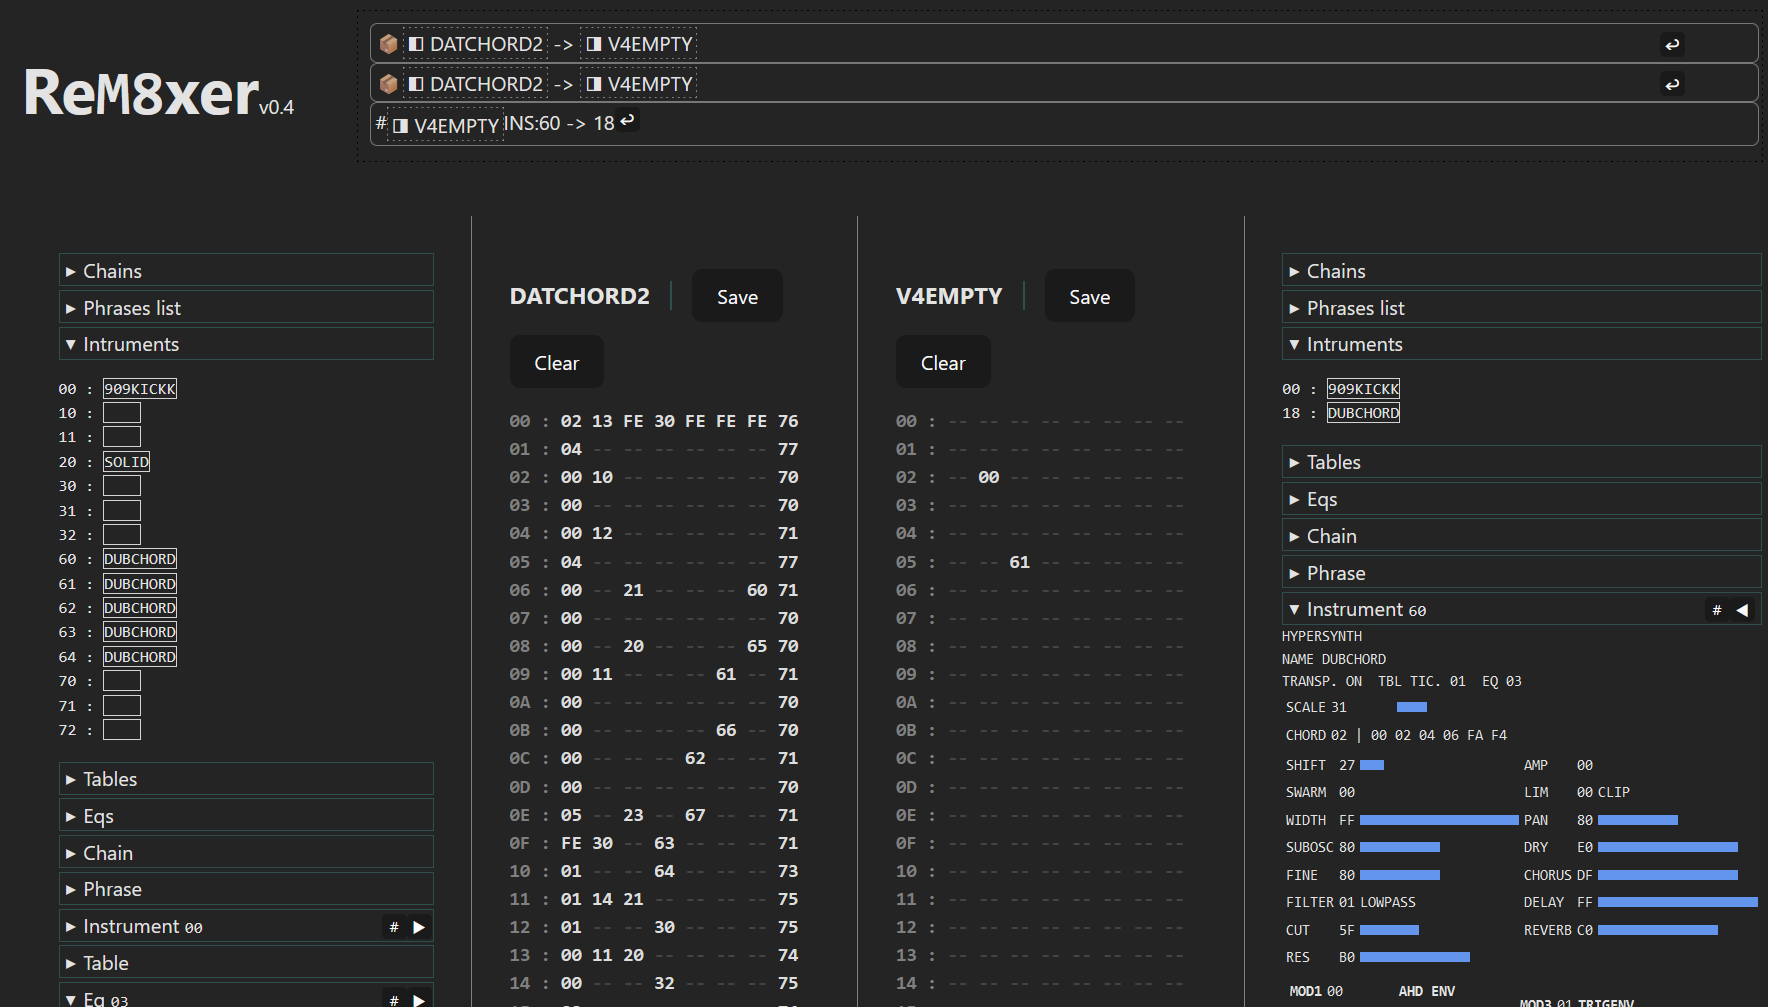
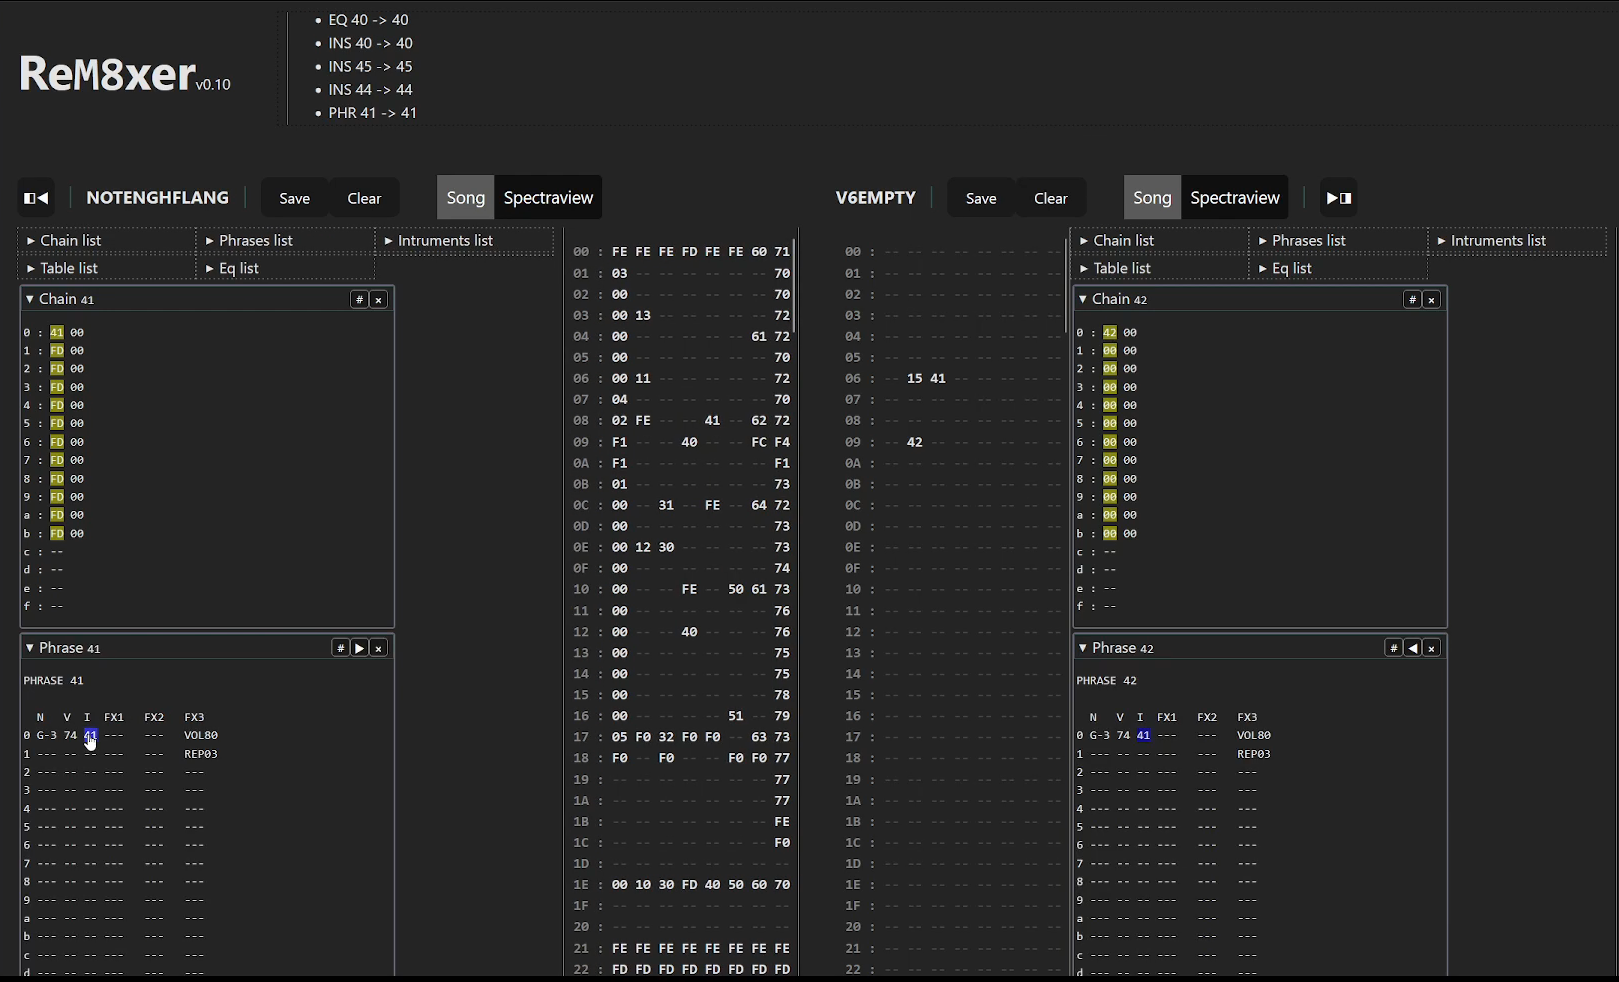
Bumping screenshots and video

diff --git a/README.md b/README.md
@@ -12,9 +12,10 @@ M8 song file remixer
    [version 0.4](https://twinside.github.io/rem8xer/v0.4),
    [version 0.3](https://twinside.github.io/rem8xer/v0.3)
 
-## Older version video presentation
+## Video presentation
 
-[https://www.youtube.com/watch?v=INRRK7ZTePQ](https://www.youtube.com/watch?v=INRRK7ZTePQ)
+ * [Version 0.10 presentation](https://youtu.be/TtaXSct7qaM)
+ * Older presentation [https://www.youtube.com/watch?v=INRRK7ZTePQ](https://www.youtube.com/watch?v=INRRK7ZTePQ) (first version maybe)
 
 ## Screenshot
 
